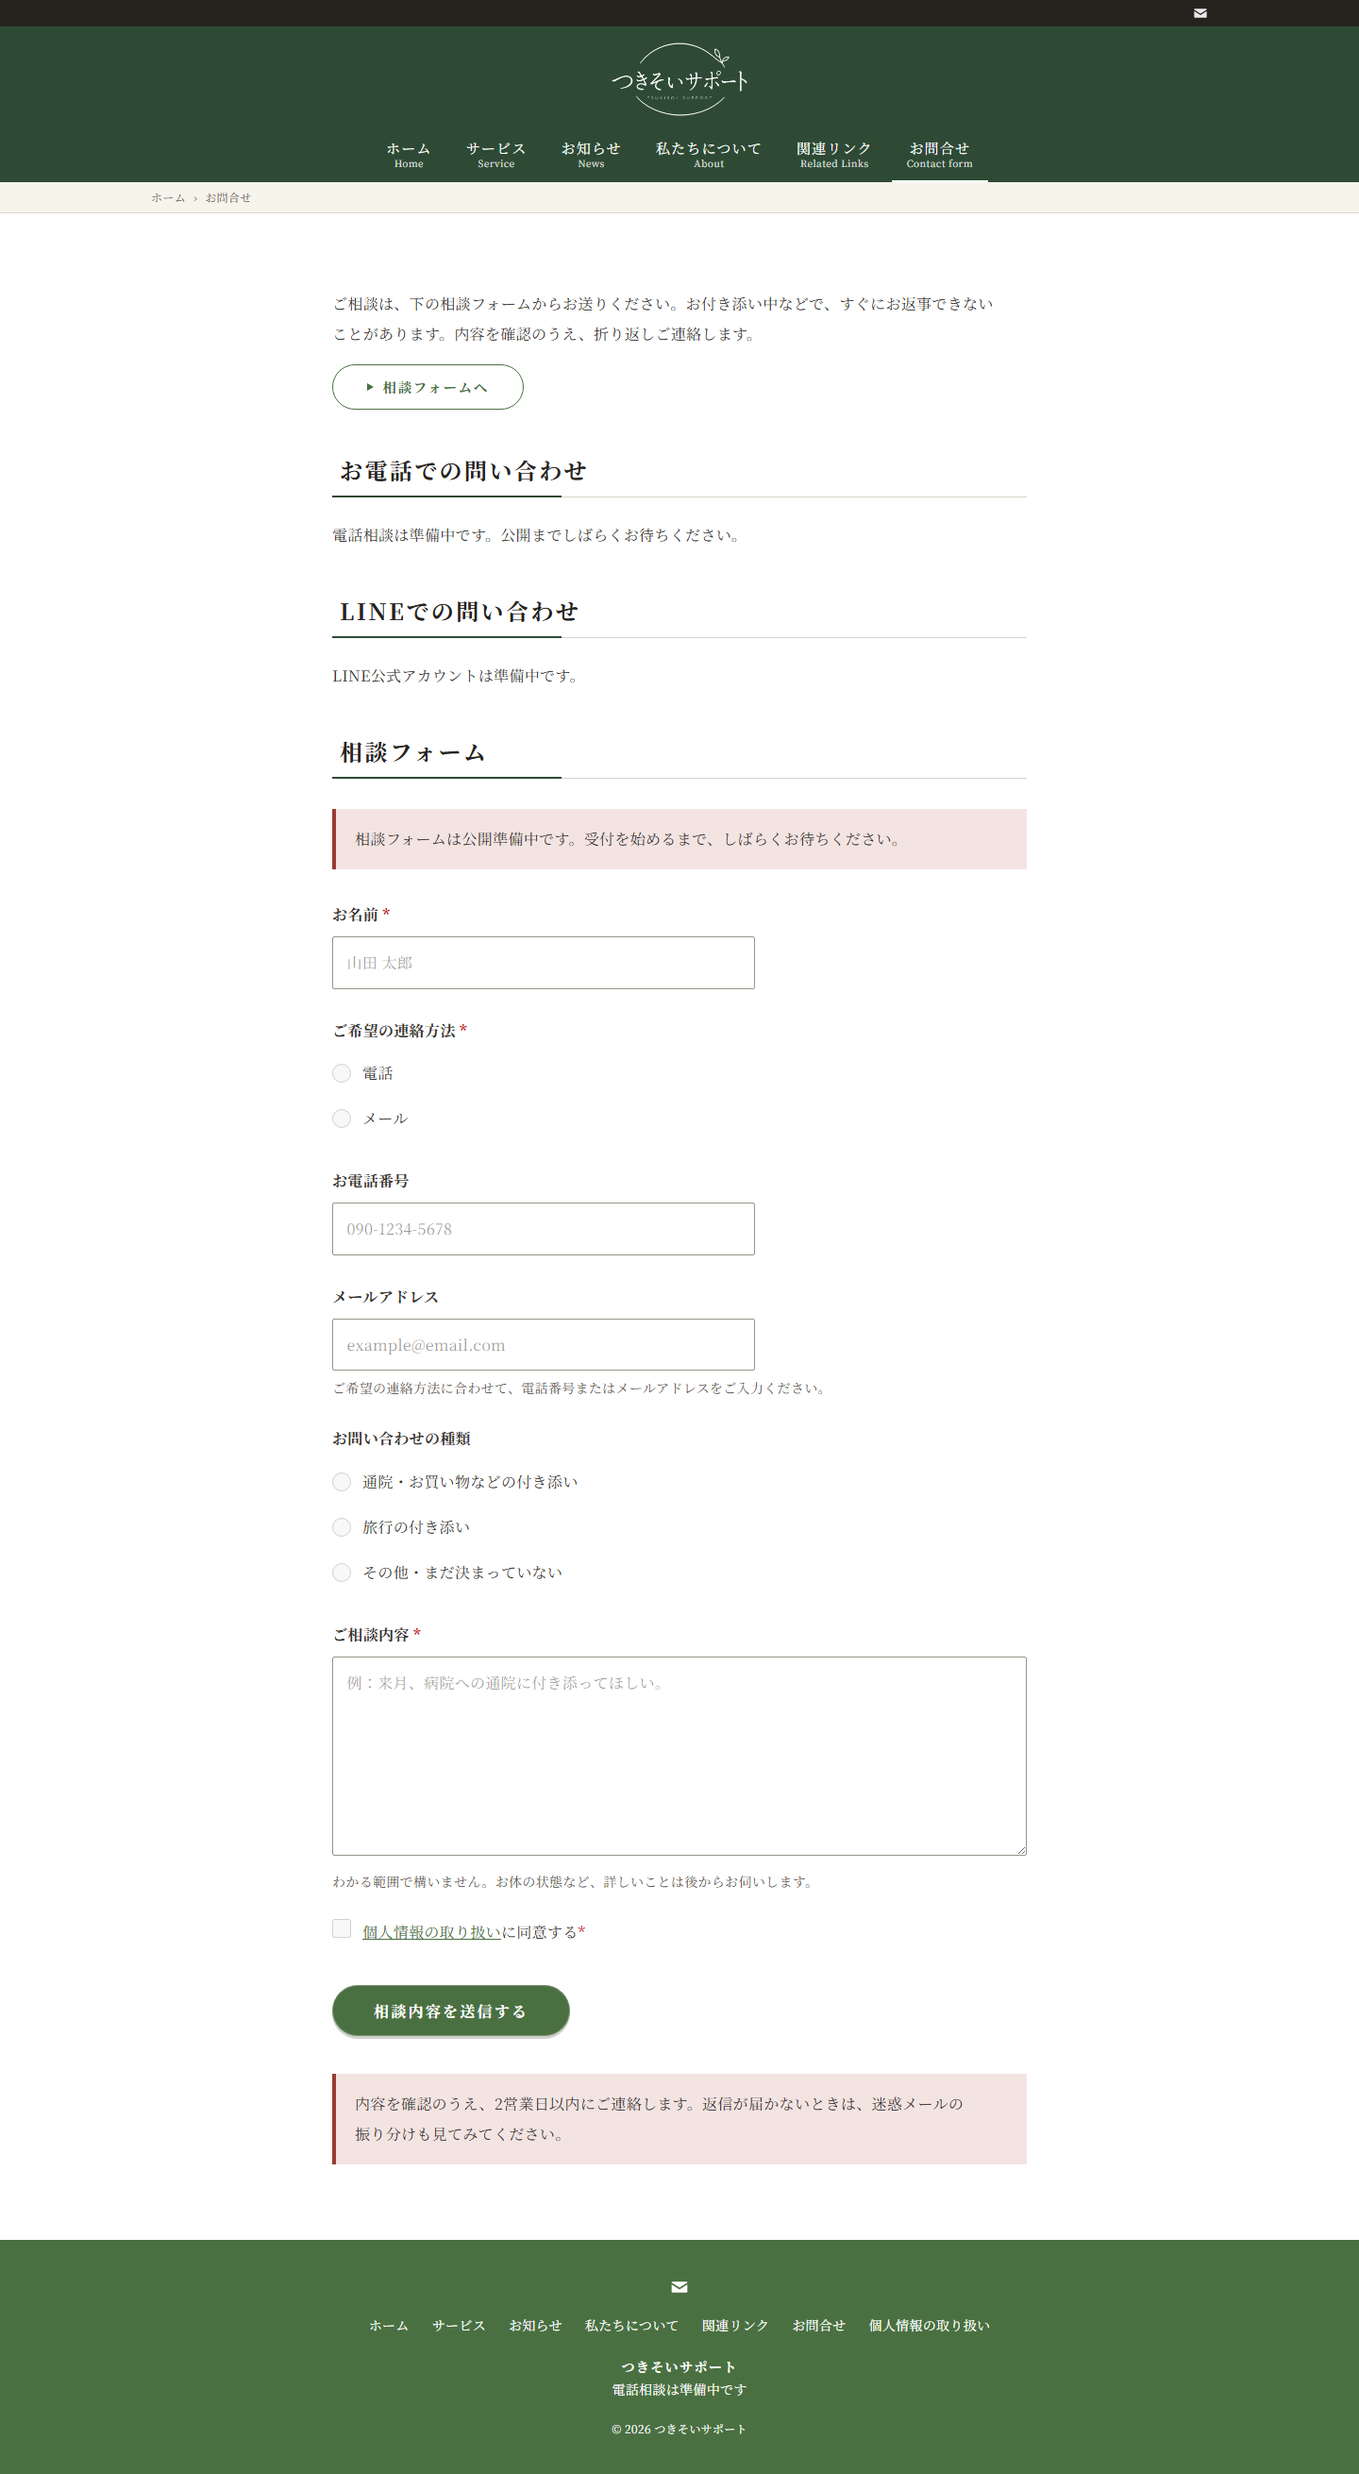
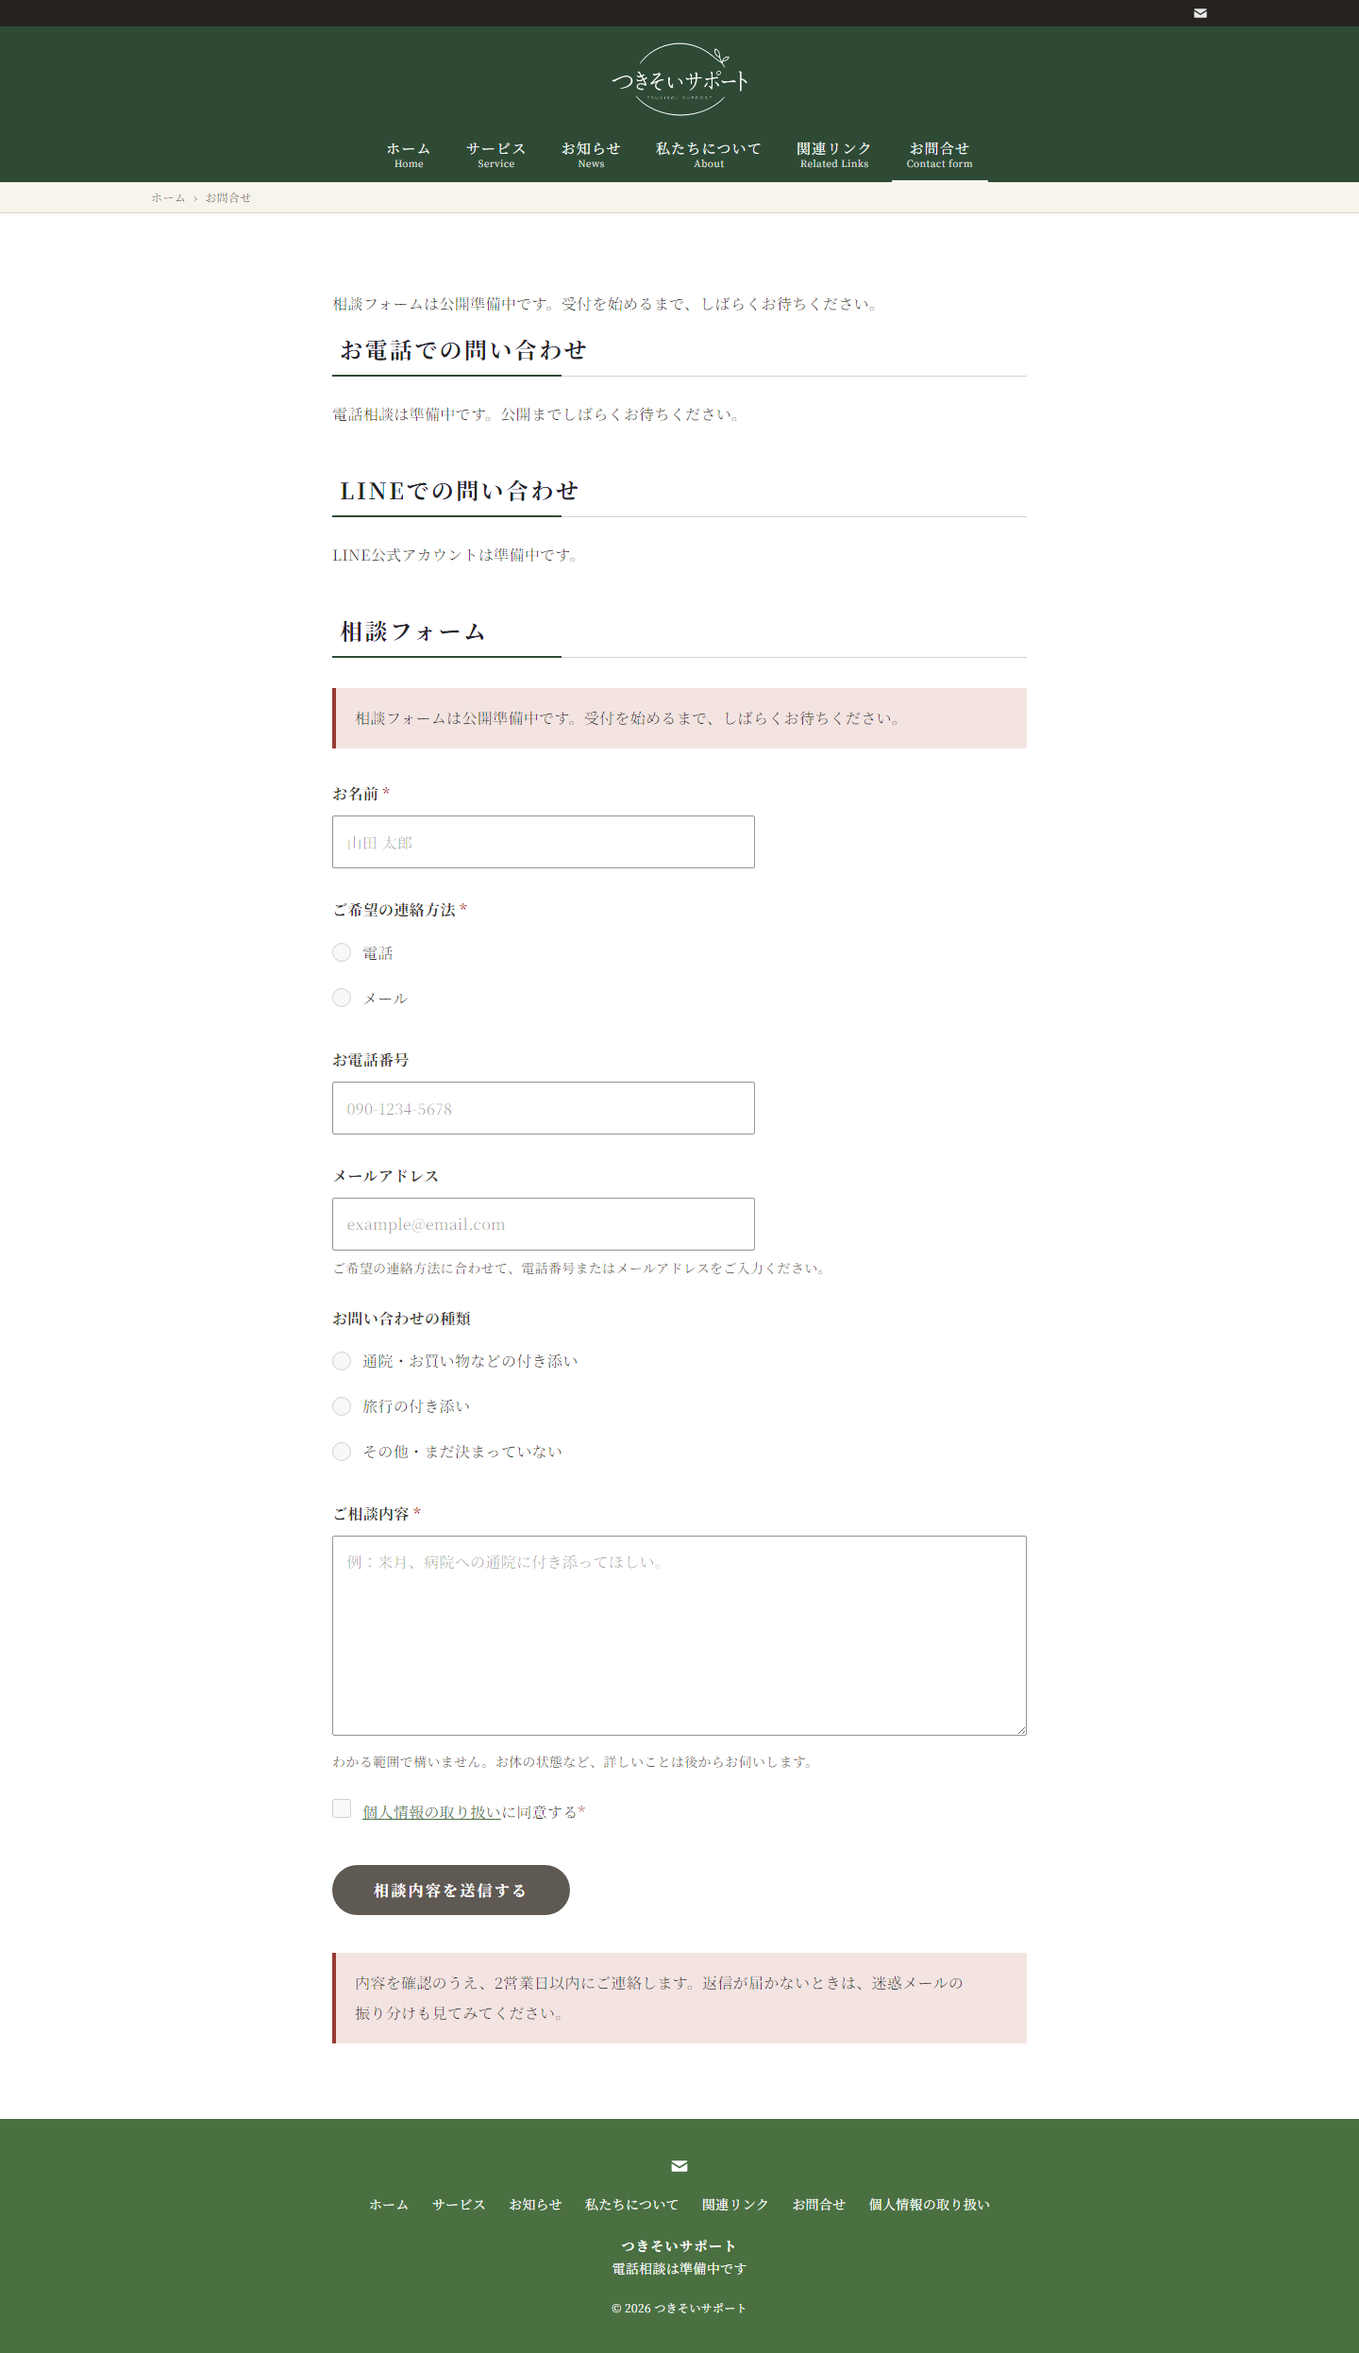
バッチ A: Codex 監査の指摘を修正（受付開始は PUBLIC_FORM_OPEN で明示・LINE は返信方法に出さない・受付前の文言と送信ボタン・privacy に問い合わせ種類）

diff --git a/tests/site.spec.ts b/tests/site.spec.ts
@@ -1,6 +1,6 @@
 import { test, expect } from '@playwright/test';
 import { readdirSync } from 'node:fs';
-import { NAV_ITEMS, SITE, SAMPLE_PREVIEW, LINE_CONFIRMED, isTelConfigured } from '../src/config';
+import { NAV_ITEMS, SITE, SAMPLE_PREVIEW, isFormOpen, isTelConfigured } from '../src/config';
 import { SAMPLE_VALUES } from '../src/config.sample';
 
 // お知らせ・読み物の記事は src/content/news/*.md から自動で拾う
@@ -458,8 +458,8 @@ test('contact form has no furigana field and the privacy page does not mention i
   await expect(page.locator('main')).not.toContainText('ふりがな');
 });
 
-test('contact form does not offer LINE as a reply method until LINE is confirmed', async ({ page }) => {
-  test.skip(LINE_CONFIRMED, 'LINE is confirmed');
+// LINE は、識別子の受け取り方・返信手順が決まるまで返信方法に出さない（LINE_URL が確定しても出さない）
+test('contact form does not offer LINE as a reply method', async ({ page }) => {
   await page.goto('/contact');
   const methods = page.locator('input[name="contact_method"]');
   await expect(methods).toHaveCount(2);
@@ -486,9 +486,34 @@ test('phone and LINE pending states are plain text, not button-like', async ({ p
   await expect(page.locator('main')).toContainText('電話相談は準備中です');
 });
 
-test('contact page links to the form from the top and uses a clear submit label', async ({ page }) => {
+// 送信キーがあるだけでは受付を開かない。PUBLIC_FORM_OPEN=1 のときだけ開く（受付開始は利用者の判断）
+test('form opens only with both the key and the explicit open flag', () => {
+  expect(isFormOpen(undefined, '1')).toBe(false);
+  expect(isFormOpen('', '1')).toBe(false);
+  expect(isFormOpen('key', undefined)).toBe(false);
+  expect(isFormOpen('key', '')).toBe(false);
+  expect(isFormOpen('key', 'true')).toBe(false);
+  expect(isFormOpen('key', '1')).toBe(true);
+});
+
+test('pending contact page does not invite to send, and the disabled button looks disabled', async ({ page }) => {
+  test.skip(Boolean(process.env.PUBLIC_FORM_KEY), 'form key is set');
   await page.goto('/contact');
-  await expect(page.locator('a[href="#contact-form"]').first()).toBeVisible();
+  await expect(page.locator('a[href="#contact-form"]')).toHaveCount(0);
+  await expect(page.locator('main')).not.toContainText('お送りください');
+  const bg = await page.getByRole('button', { name: '相談内容を送信する' }).evaluate((el) => getComputedStyle(el).backgroundColor);
+  expect(bg).not.toBe('rgb(74, 112, 66)');
+});
+
+test('privacy page lists every collected form item', async ({ page }) => {
+  await page.goto('/privacy');
+  for (const item of ['お名前', 'お電話番号', 'メールアドレス', 'ご希望の連絡方法', 'お問い合わせの種類', 'ご相談内容']) {
+    await expect(page.locator('main')).toContainText(item);
+  }
+});
+
+test('contact page uses a clear submit label', async ({ page }) => {
+  await page.goto('/contact');
   await expect(page.getByRole('button', { name: '相談内容を送信する' })).toBeVisible();
 });
 

diff --git a/src/config.ts b/src/config.ts
@@ -45,8 +45,9 @@ const withSamples = (base: Site): Site => {
 
 export const SITE: Site = SAMPLE_PREVIEW ? withSamples(BASE) : BASE;
 
-// 返信方法に LINE を出してよいか。サンプルの架空値ではなく、確定した設定値（BASE）で判定する
-export const LINE_CONFIRMED = isConfigured(BASE.LINE_URL);
+// 相談フォームの受付を始めてよいか。送信キー（PUBLIC_FORM_KEY）があるだけでは開けない。
+// 利用者が受付開始を決めたときだけ PUBLIC_FORM_OPEN=1 を足す（実送信の確認は Preview で両方を設定して行う）
+export const isFormOpen = (key: string | undefined, openFlag: string | undefined): boolean => Boolean(key) && openFlag === '1';
 
 // ヘッダー/フッター共通のナビゲーション
 export const NAV_ITEMS = [

diff --git a/src/styles/global.css b/src/styles/global.css
@@ -182,6 +182,14 @@ html {
     box-shadow: 0 1px 0 rgba(38, 35, 31, 0.22), inset 0 0 0 1px rgba(255, 255, 255, 0.25);
   }
 
+  /* 受付前などで押せないとき。緑の押せるボタンに見せない */
+  .btn-solid:disabled {
+    background: var(--color-ink-muted);
+    box-shadow: none;
+    cursor: not-allowed;
+    transform: none;
+  }
+
   /* 電話の濃いピル（番号が確定しているときだけ使う。未確定は文章で「準備中」と伝える） */
   .btn-phone {
     display: inline-flex;

diff --git a/docs/HANDOFF.md b/docs/HANDOFF.md
@@ -2,7 +2,7 @@
 
 毎回の終わりに Claude Code が更新する。新しいチャットはここから始める。
 
-最終更新: 2026-10-10
+最終更新: 2026-10-11
 
 ## 環境
 
@@ -19,6 +19,8 @@
 - 検証: build 11ページ、`astro check` 0 errors、Playwright 140件成功。
 - Codex 監査（A）: `c3de7b9..7cf8c06` は重大 0 / 中 0 / 軽微 0、マージ可。
 - `SITE.PUBLISHED = false`（全ページ noindex）のまま。
+- **バッチ A 実装済み**（8ea26b6 + 監査の修正）。ふりがな削除、返信方法（電話/メール。LINE は出さない）で必須切替、エラーは欄ごと、準備中の電話・LINE は文章、受付前は送信ボタン無効（灰色）。受付開始は `PUBLIC_FORM_KEY` + `PUBLIC_FORM_OPEN=1`（キーだけでは開かない）。検証: astro check 0 errors、Playwright 152件成功（Windows ではローカルの `./node_modules/.bin/playwright` を使う。`npm ci` → `playwright install chromium`。`npx` だと別版を拾う）。
+- Codex 監査（段階 2、gpt-5.6-sol）: 重大1・中2・軽微1 → 全件採用して修正済み（重大=キーだけで受付開始、中=準備中の文言と無効ボタン／LINE 返信先、軽微=privacy に「お問い合わせの種類」）。**修正後の再監査は未実施**。Codex は読み取り専用の制約で build/test を完走できない（Playwright 実行は検証不要と指示するとよい。所要は約20分）。
 
 ## 進行中
 
@@ -52,7 +54,7 @@ Codex の分析・提案（C、対象 6fb7992、1440/390/320px の33画面を確
 
 実装の単位（Codex の順を、監査の回数と依存で組み直した）。1バッチ = 1回の実装 + 検証 + push。バッチが終わるたびに HANDOFF と DECISIONS を更新し、**区切りで `/clear` を推奨**する。
 
-1. **バッチ A（準備中表示とフォーム）**: ① + ⑤。**利用者の判断（2026-10-10）: ふりがな項目は外す。** 変更箇所: `contact.astro` の項目（72〜73行）、`privacy.astro` の取得項目の記述（12行）、関連テスト。返信方法で LINE の選択肢は、LINE が確定するまで出さない（本番の判定は確定した設定値で。サンプル表示の架空値では本番に出ないこと）。個人情報・取得項目に関わるので **Codex 監査は段階 2**（観点: 準備中の表現、取得項目と `/privacy` の整合、LINE を出していないこと、送信キー未設定時の挙動）。Codex 呼び出しは WORKFLOW 9・10（`-m gpt-5.6-sol`、強度 high）。
+1. **バッチ A（済。再監査待ち）**: ① + ⑤。**利用者の判断（2026-10-10）: ふりがな項目は外す。** 変更箇所: `contact.astro` の項目（72〜73行）、`privacy.astro` の取得項目の記述（12行）、関連テスト。返信方法で LINE の選択肢は、LINE が確定するまで出さない（本番の判定は確定した設定値で。サンプル表示の架空値では本番に出ないこと）。個人情報・取得項目に関わるので **Codex 監査は段階 2**（観点: 準備中の表現、取得項目と `/privacy` の整合、LINE を出していないこと、送信キー未設定時の挙動）。Codex 呼び出しは WORKFLOW 9・10（`-m gpt-5.6-sol`、強度 high）。
 2. **バッチ B（文字）**: ②。段階 1。実フォントで 320/390/1440px の折り返しを確認。
 3. **バッチ C（CTAと導線）**: ③ + ④ + ⑧。段階 1。アンカーid追加（`#prices` `#flow` `#policy`）、テスト更新（ナビ名、CTA位置）。**ナビ名は利用者の一任で決定（2026-10-10）: 「サービス」→「サービス・料金」、「お問合せ」→「相談フォーム」。** ナビ・フッター・パンくず（`service.astro` `contact.astro` の `crumbs`）・ページ見出し・`config.ts`・テストで同じ名前に統一する。英語の小ラベルは `Service` / `Contact form` のまま（装飾なので `aria-hidden`）。
 4. **バッチ D（内容と行き止まり）**: ⑥（骨格のみ）+ ⑦。許認可・対応範囲に関わる文言があるので段階 2。**利用者の判断（2026-10-10）: 対応範囲・追加費用の条件・家族への共有方法・医療的ケアの可否は、まだ準備中のままでよい。** 断定せず、「詳しい対応範囲は準備中です」のように控えめに書く（医療的ケアを提供できるようには書かない）。

diff --git a/docs/DECISIONS.md b/docs/DECISIONS.md
@@ -3,6 +3,7 @@
 1行ずつ。新しいものを上に足す。形式: `日付 | 決めたこと | 理由`。
 決めた人が利用者のものは「（利用者）」と付ける。
 
+- 2026-10-11 | バッチ A: フォームの受付開始は `PUBLIC_FORM_KEY` だけでは開けず、`PUBLIC_FORM_OPEN=1` を足したときだけ開く。返信方法に LINE は出さない（LINE_URL が確定しても、LINE の識別子の受け取り方・返信手順が決まるまで）。準備中の電話・LINE は文章にし、受付前は送信ボタンを灰色の無効表示にする | Codex 監査（段階 2）の指摘。キーがあるだけで公開前に受付が始まる事故と、返信先を特定できない LINE 選択を防ぐ
 - 2026-10-10 | ふりがな項目を外す。ナビ名は「サービス・料金」「相談フォーム」にする（利用者の一任）。対応範囲・追加費用の条件・家族への共有方法・医療的ケアの可否は準備中のままにする（利用者） | 取得項目を減らして入力の負担を下げる／ナビで相談と料金の入口を分かりやすくする／未確定の内容を断定しない
 - 2026-10-10 | Codex の分析・提案（C）9件を仕分けた。採用: ①②④⑦⑧、一部採用: ③（固定帯は保留）⑤（ふりがなは保留・LINE選択肢は出さない）⑥（対応範囲は準備中のまま）⑨、却下: 暗幕55%を軽くする。色の変更はしない。詳細と実装の単位は `docs/HANDOFF.md` | 目的（問い合わせへの到達・安心感・読みやすさ・嘘をつかない）に効く順に、方針（CLAUDE.md 1・2）と実測のコントラストを守る
 - 2026-10-10 | 文字サイズの拡大、トップ直下の相談CTA、ナビ名の変更は、参考サイトに揃える方針（CLAUDE.md 2）からの意図的な差とする（利用者の依頼による見直し） | 訪問者（高齢の本人・家族）が読みやすく、相談に進みやすくするため

diff --git a/CLAUDE.md b/CLAUDE.md
@@ -47,7 +47,7 @@ Astro 7 + Tailwind 4 の静的サイト。Vercel にデプロイ（Git 連携）
 ## 3-2. 公開前に残る確認事項
 
 - 電話番号・住所・LINE・Instagram・メール・受付時間の**実際の値の確定**（`src/config.ts`）。サンプル表示（`config.sample.ts`）は確認用で、公開用の値ではない。
-- お問い合わせフォームの送信キー `PUBLIC_FORM_KEY`（未設定のままでは送信できない。Vercel の環境変数に設定し、コードには書かない）。
+- お問い合わせフォームの送信キー `PUBLIC_FORM_KEY`（未設定のままでは送信できない。キーがあっても `PUBLIC_FORM_OPEN=1` を足すまで「公開準備中」の表示のまま（受付開始は利用者の判断）。実送信の確認は Preview で両方を設定して行う。Vercel の環境変数に設定し、コードには書かない）。
 - 個人情報の取り扱いページ（`/privacy`）は雛形。「雛形・要確認」の表示を、正式な文面に差し替えるまで外さない（取得する情報・委託先・窓口を実態に合わせて確認）。
 - 福祉タクシーの許可・旅行手配の登録の取得状況。
 - 参考サイトとの本文照合は 2026-10-10 に実施済み（`scripts/compare-reference.py`）。料金表下の注記とご利用の流れが言い換え程度だったため書き直した。文章を足したら再実行する。

diff --git a/docs/PROJECT.md b/docs/PROJECT.md
@@ -48,7 +48,7 @@
 公開（`SITE.PUBLISHED = true`、Production への反映）の前に、次がすべて満たされていること。
 
 - [ ] 電話・住所・LINE・Instagram・メール・受付時間の実際の値の確定（`src/config.ts`）
-- [ ] `PUBLIC_FORM_KEY` を Vercel に設定し、実際の送信を確認
+- [ ] `PUBLIC_FORM_KEY` を設定し、Preview で `PUBLIC_FORM_OPEN=1` も付けて実際の送信を確認。本番で受付を始めるときに `PUBLIC_FORM_OPEN=1` を設定（利用者の判断）
 - [ ] `/privacy` の正式な文面（「雛形・要確認」の表示を外す）
 - [ ] 福祉タクシー・旅行手配の許可／登録の取得状況の確認と、表記の確定
 - [ ] 写真・画像の権利、代表者プロフィール、連携団体の掲載承諾
